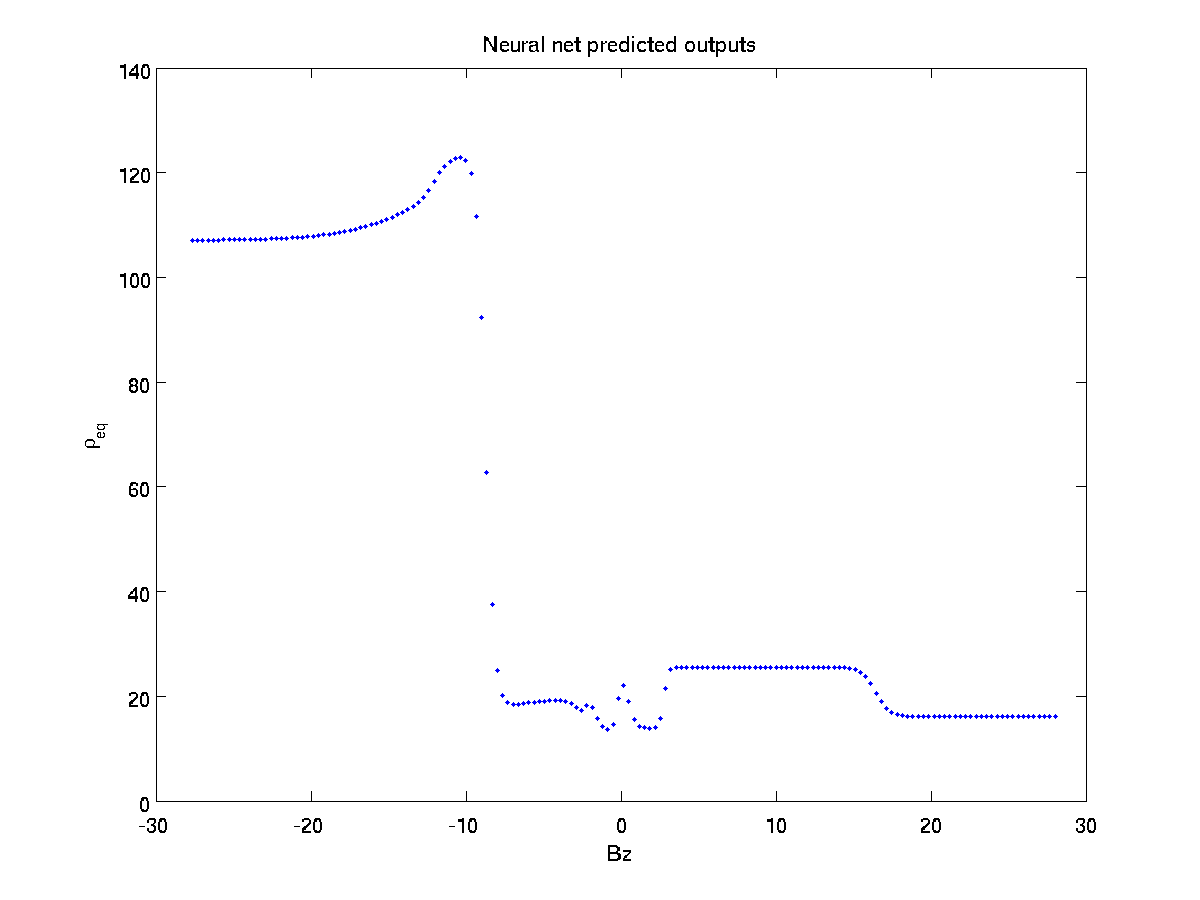
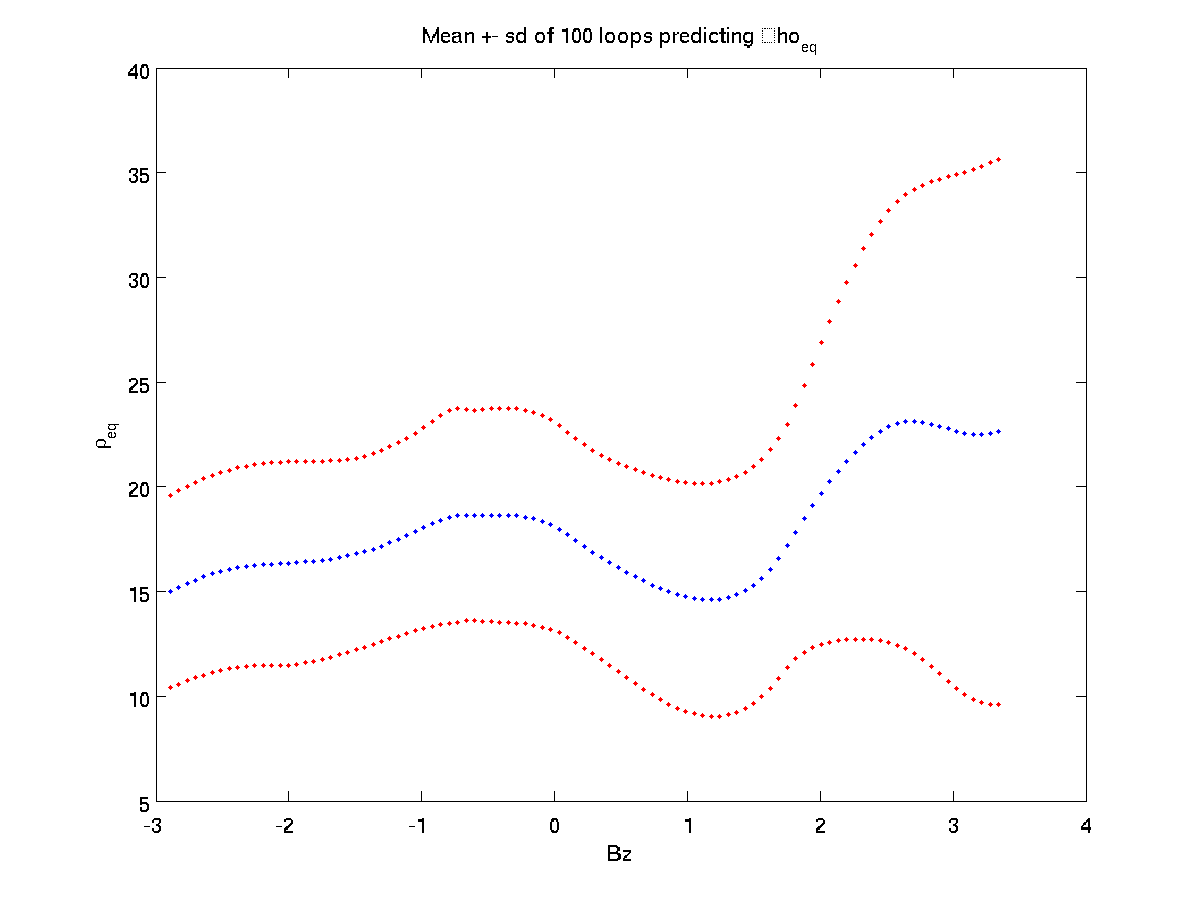
Figures generated as averages of multiple runs, plus sd plot

diff --git a/Density.m b/Density.m
@@ -411,12 +411,49 @@ if(nnanalysis) %Because the nn validation and test sets vary so much in effectiv
     CCMsm=squeeze(nanmean(CCMs,1));
     CCMssd=squeeze(nanstd(CCMs,1));
     %}
+    xtest=linspace(nanmean(FILLED(:,5))-nanstd(FILLED(:,5)),nanmean(FILLED(:,5))+nanstd(FILLED(:,5)));
     
-    [~, ~, net]=nntest(nanmedian(AVMat(:,20:25,5),2),nanmedian(AVMDMat(:,26:30),2),1,1,1);
+    [testmean,testsd]=nnbehavior(nanmedian(AVMat(:,20:25,5),2),nanmedian(AVMDMat(:,26:30),2),xtest,1,loops);
     
-    tryBzs=linspace(min(FILLED(:,5)),max(FILLED(:,5)),30)
-    outputs=net(tryBzs);    
+    plot(xtest(2:end),testmean,'.')
+    hold on; plot(xtest(2:end),[testmean+testsd; testmean-testsd],'r.')
+    xlabel('Bz')
+    ylabel('\rho_{eq}')
+    title(sprintf('Mean +- sd of %d loops predicting \rho_{eq}',loops))
+    print -dpng figures/NNBzRho.png
     
+    outputs=[];
+    ytest=linspace(nanmean(FILLED(:,29))-nanstd(FILLED(:,29)),nanmean(FILLED(:,29))+nanstd(FILLED(:,29)));
+    [testmean,testsd]=nnbehavior2(nanmedian(AVMat(:,20:25,[5 29]),2),nanmedian(AVMDMat(:,26:30),2),xtest,ytest,1,loops);
+    
+    %{
+    trynum=1;
+    [~, ~, net]=nntest([nanmedian(AVMat(:,20:25,[5 29]),2)],nanmedian(AVMDMat(:,26:30),2),1,1,1);
+    for tryf107=linspace(min(FILLED(:,29)),max(FILLED(:,29)))
+        [tryBzs,tryBzstates]=preparets(net,tonndata([linspace(min(FILLED(:,5)),max(FILLED(:,5))); tryf107.*ones(1,100)],true,false));
+        outputs(trynum,:)=fromnndata(net(tryBzs,tryBzstates),true,true,false);
+        trynum=trynum+1;
+    end
+    inputs=fromnndata(tryBzs,true,true,false);
+    surf(linspace(min(FILLED(:,29)),max(FILLED(:,29))),inputs(1,:),outputs')
+    %}
+    
+    figure; surf(xtest(2:end),ytest,testmean,'EdgeColor','none','LineStyle','none','FaceLighting','phong') %Even though phong is deprecated, it's the only one that plots without corruption
+    view(0,90)
+    ylabel('F10.7')
+    xlabel('Bz')
+    title(sprintf('Mean predicted \rho_{eq} over %d loops',loops))
+    colorbar
+    print -dpng figures/NNF107BzRho.png
+    
+    figure; surf(xtest(2:end),ytest,testsd,'EdgeColor','none','LineStyle','none','FaceLighting','phong') %Even though phong is deprecated, it's the only one that plots without corruption
+    view(0,90)
+    ylabel('F10.7')
+    xlabel('Bz')
+    title(sprintf('Standard deviation of %d loops predicting \rho_{eq}',loops))
+    colorbar
+    print -dpng figures/NNF107BzRho-sd.png
+
     
     PermNames={'Bz','Vsw','Dst','F107'};
     PermCols=[5 6 15 29];

diff --git a/nnbehavior2.m b/nnbehavior2.m
@@ -1,0 +1,50 @@
+function [testmean, testsd, net] = nnbehavior2(x,target,xtest,ytest,delays,loops)
+if(nargin<4)
+    delays=1;
+    loops=10;
+elseif(nargin<5)
+    loops=10;
+end
+
+%Make column vectors
+if(diff(size(x))>0), x=x'; end
+if(diff(size(xtest))>0), xtest=xtest'; end
+
+if(length(size(x))==3) %If sending in multiple variables for each storm and time, just add them as a vector of variables for each storm
+    x=reshape(x,length(x),[]);
+end
+
+Z=[x target];
+for col=1:min(size(Z))
+    Z(isnan(Z(:,col)),:)=[];
+end
+x=Z(:,1:end-1);
+target=Z(:,end);
+
+hiddenLayerSize = 10;
+outputs=zeros(loops,length(ytest),length(xtest)-1);
+
+for loop=1:loops
+    net=timedelaynet(1:delays,hiddenLayerSize);
+    [inputs,inputStates,layerStates,targets] = preparets(net,tonndata(x,false,false),tonndata(target,false,false));
+    net.divideParam.trainRatio = 70/100;
+    net.divideParam.valRatio = 15/100;  
+    net.divideParam.testRatio = 15/100;
+    net.trainParam.showWindow=0;
+    net = train(net,inputs,targets,inputStates,layerStates); 
+    
+    for yloop=1:length(ytest)
+        [testinputs,testinputStates,testlayerStates] = preparets(net,tonndata([xtest ones(length(xtest),1).*ytest(yloop)],0,0) ); 
+        outputs(loop,yloop,:) = fromnndata(net(testinputs,testinputStates,testlayerStates),1,1,0);
+    end
+    
+end
+
+if(loops>1)
+    testmean=squeeze(nanmean(outputs,1));
+    testsd=squeeze(nanstd(outputs,1));
+else
+    testmean=squeeze(outputs);
+    testsd=nan(size(testmean));
+end
+

diff --git a/nnbehavior.m b/nnbehavior.m
@@ -1,0 +1,50 @@
+function [testmean, testsd, net] = nnbehavior(x,target,xtest,delays,loops)
+if(nargin<4)
+    delays=1;
+    loops=10;
+elseif(nargin<5)
+    loops=10;
+end
+
+%Make column vectors
+if(diff(size(x))>0), x=x'; end
+if(diff(size(xtest))>0), xtest=xtest'; end
+
+if(length(size(x))==3) %If sending in multiple variables for each storm and time, just add them as a vector of variables for each storm
+    x=reshape(x,length(x),[]);
+end
+
+Z=[x target];
+for col=1:min(size(Z))
+    Z(isnan(Z(:,col)),:)=[];
+end
+x=Z(:,1:end-1);
+target=Z(:,end);
+
+hiddenLayerSize = 10;
+
+
+for loop=1:loops
+    net=timedelaynet(1:delays,hiddenLayerSize);
+    [inputs,inputStates,layerStates,targets] = preparets(net,tonndata(x,false,false),tonndata(target,false,false));
+    
+    if(loop==1), [testinputs,testinputStates,testlayerStates] = preparets(net,tonndata(xtest,false,false)); end
+    
+    net.divideParam.trainRatio = 70/100;
+    net.divideParam.valRatio = 15/100;  
+    net.divideParam.testRatio = 15/100;
+    net.trainParam.showWindow=0;
+
+    net = train(net,inputs,targets,inputStates,layerStates);   
+    
+    outputs(loop,:) = fromnndata(net(testinputs,testinputStates,testlayerStates),1,1,0);
+end
+
+if(loops>1)
+    testmean=squeeze(nanmean(outputs,1));
+    testsd=squeeze(nanstd(outputs,1));
+else
+    testmean=squeeze(outputs);
+    testsd=nan(size(testmean));
+end
+
